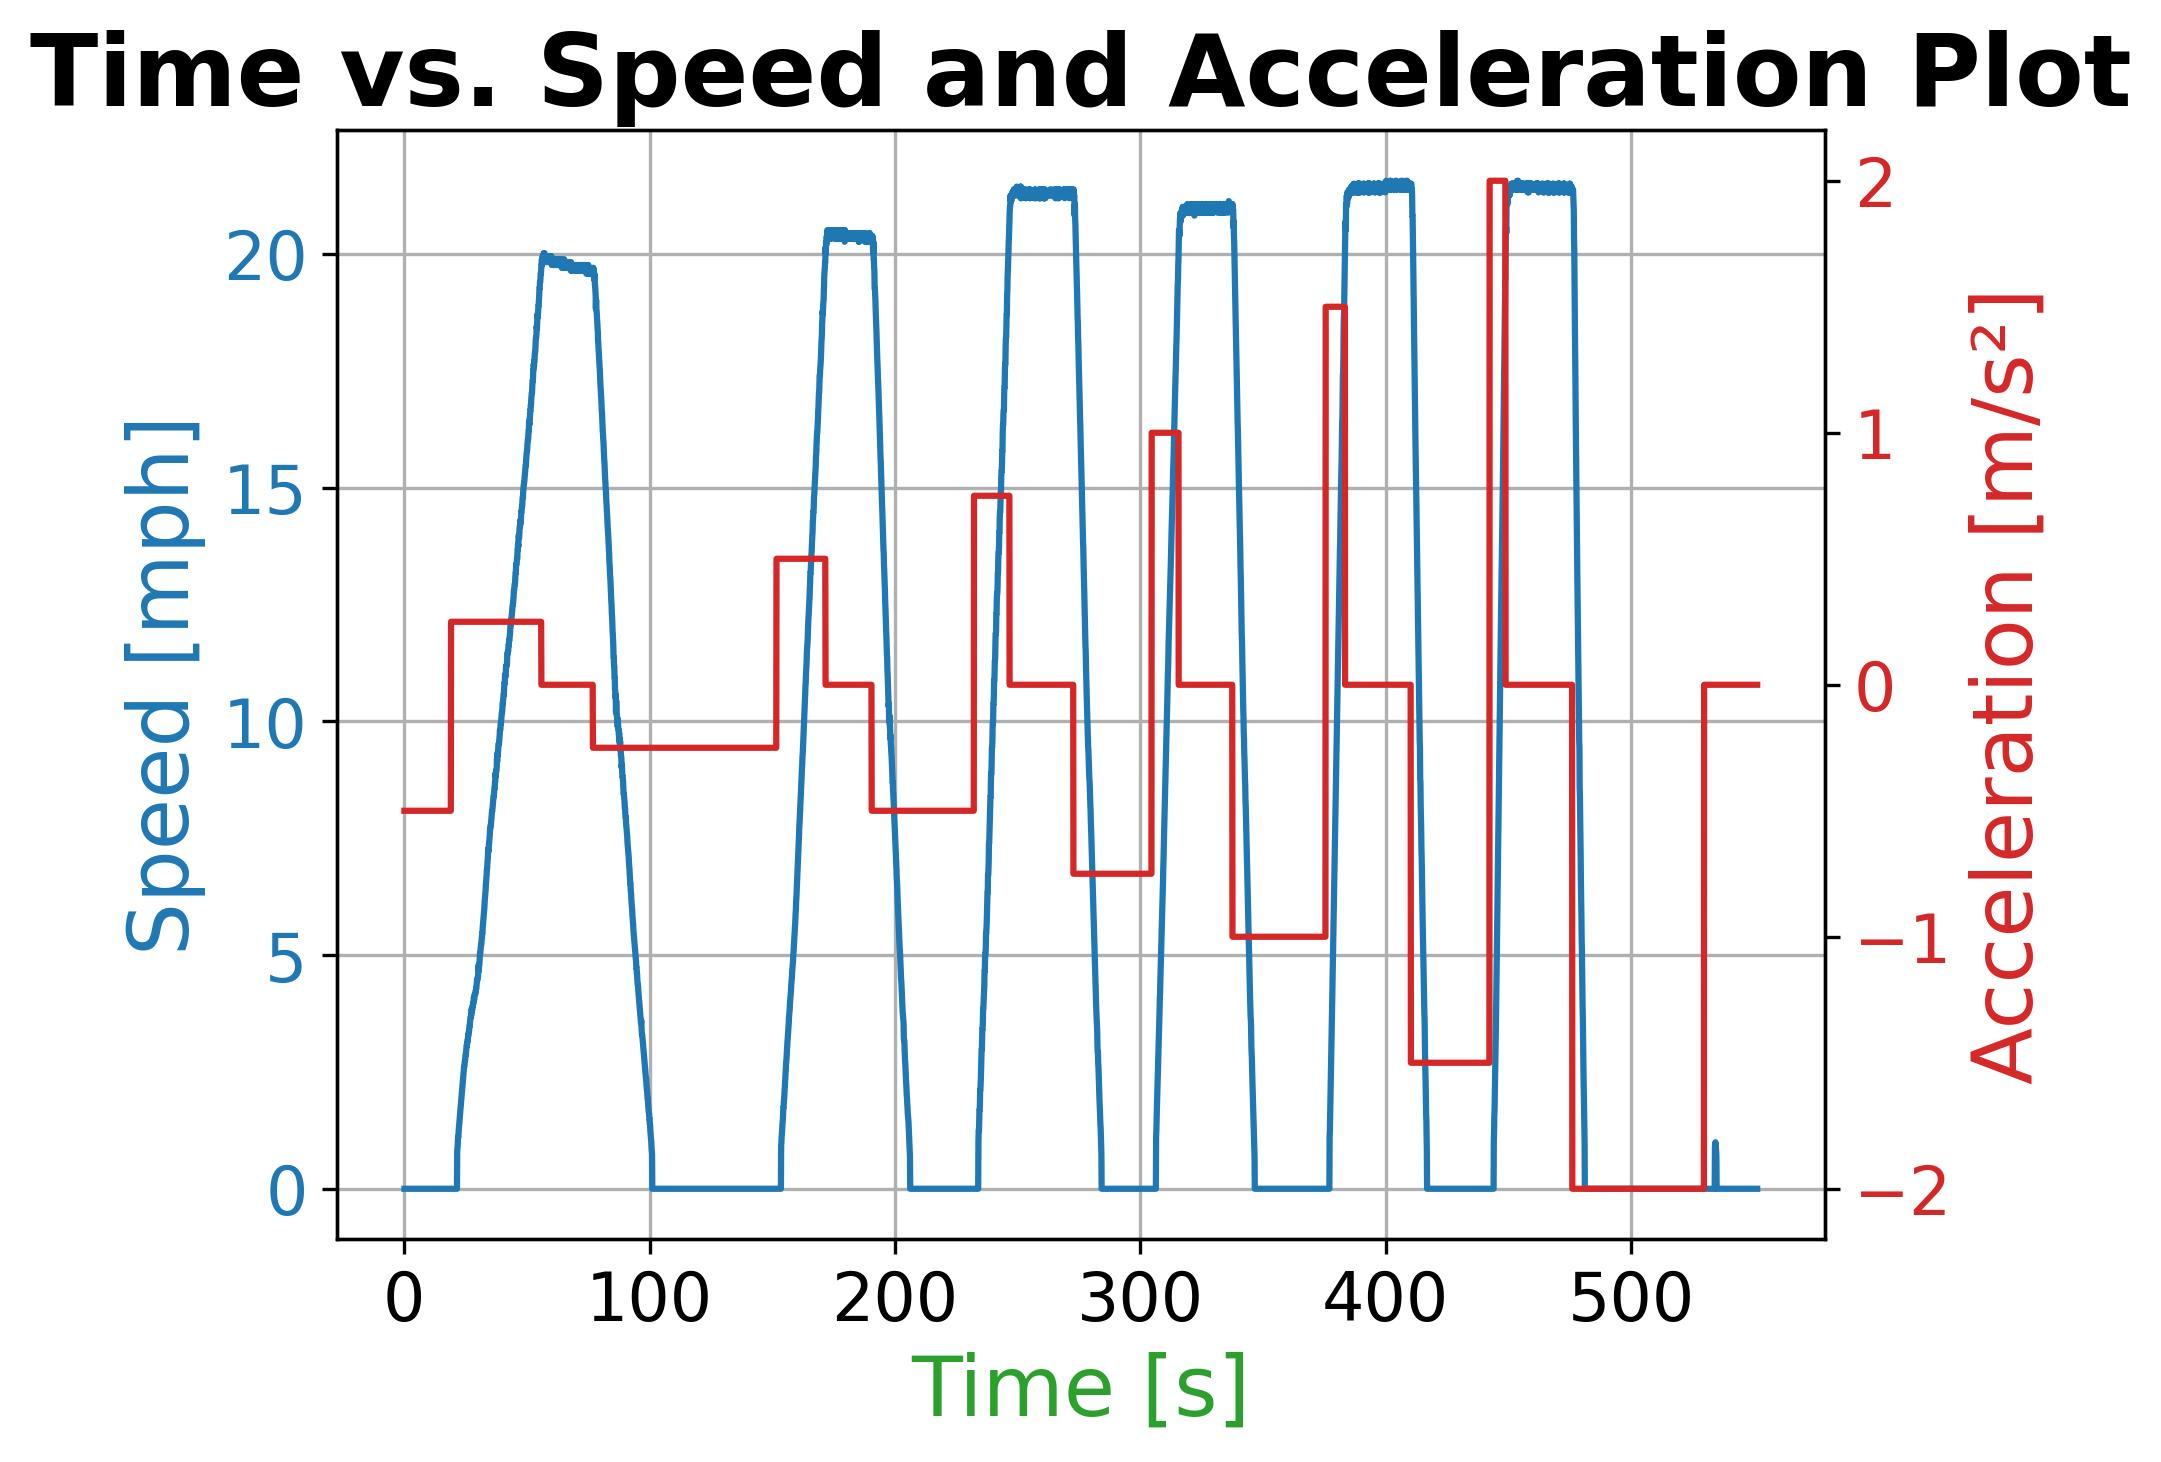
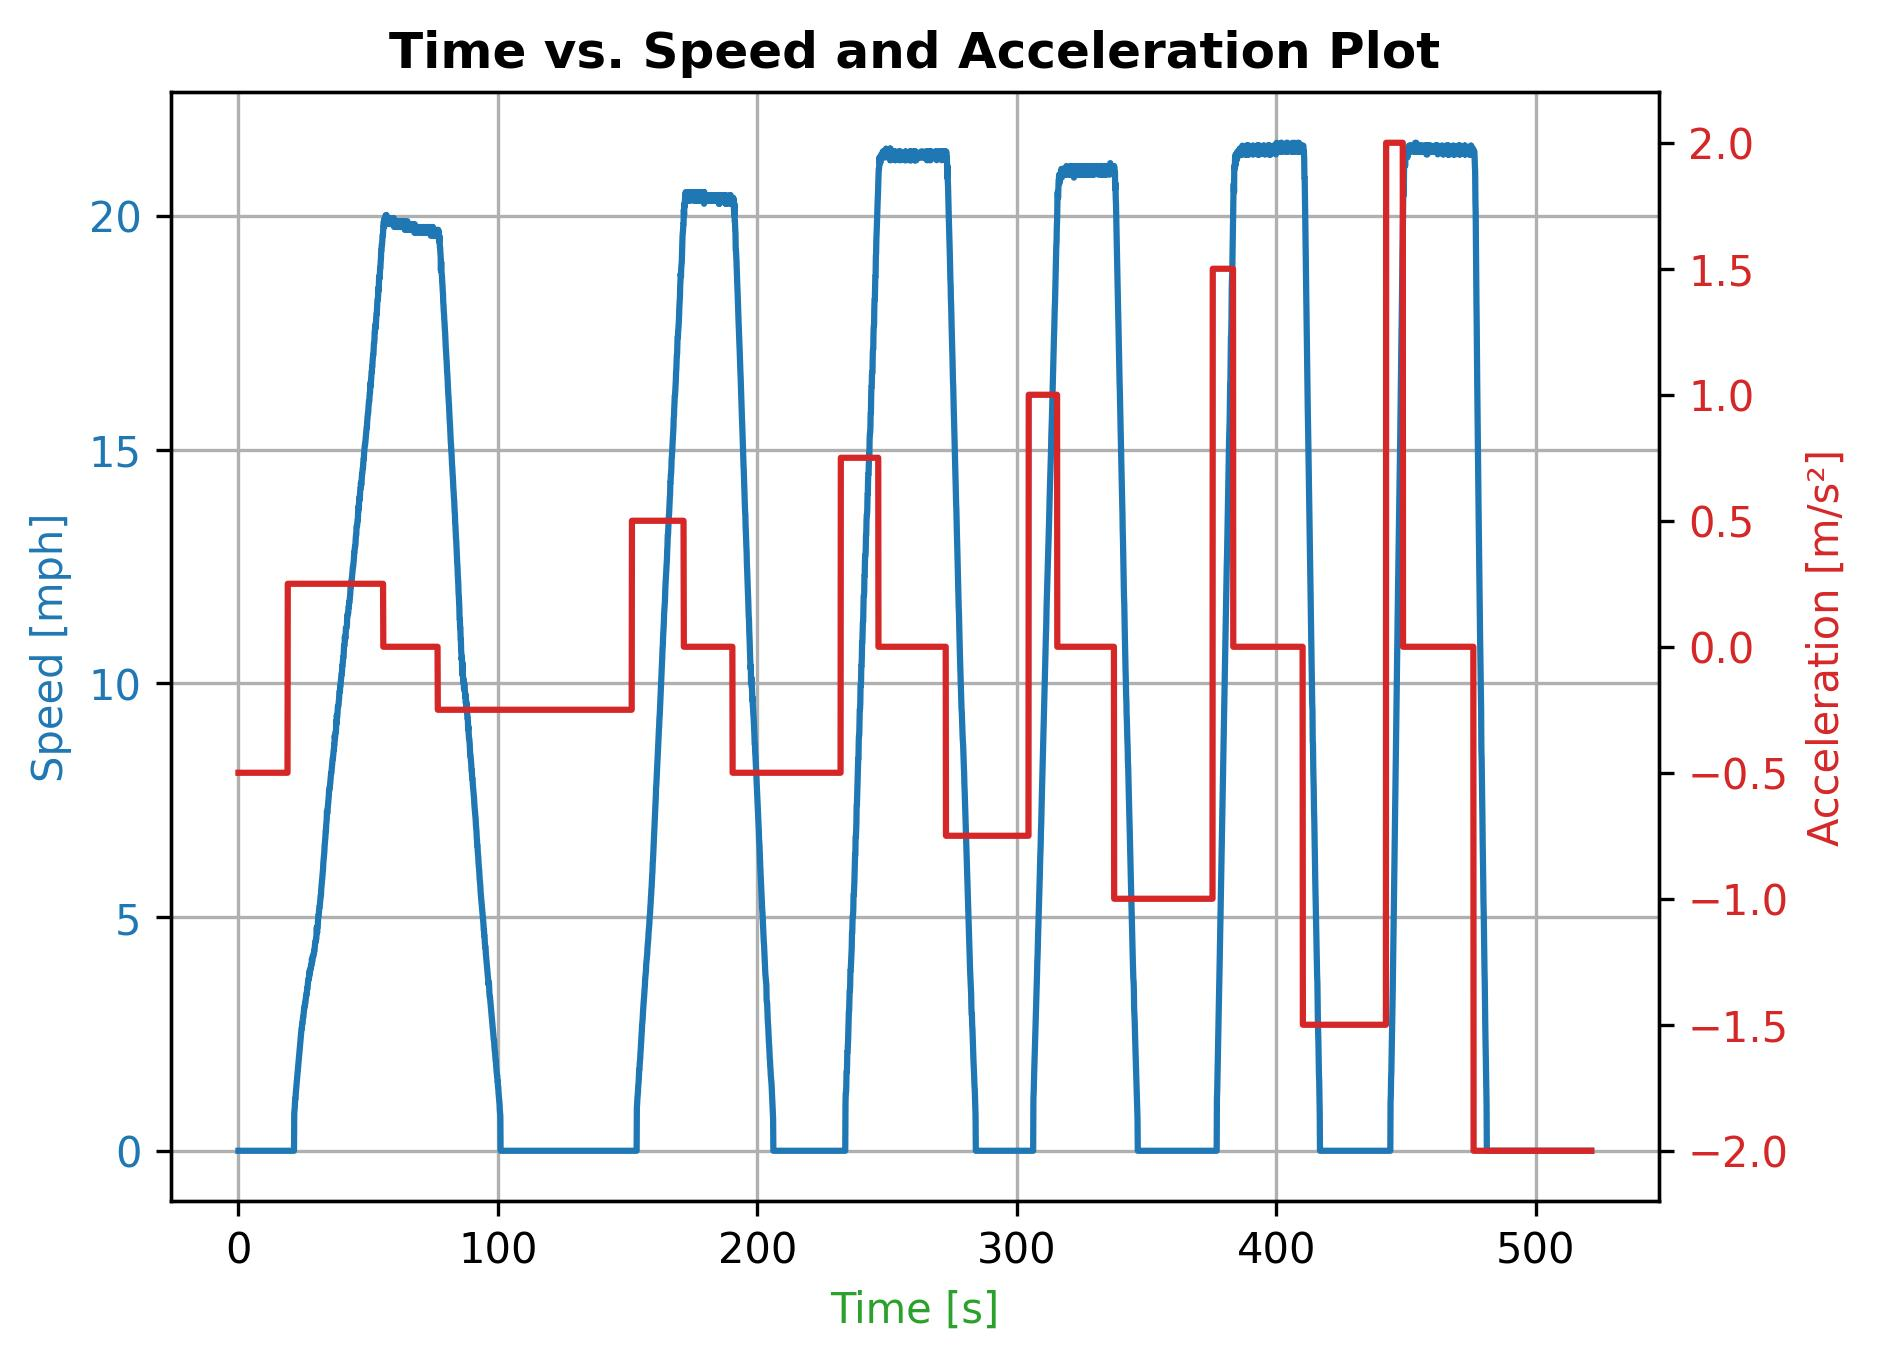
updated figures

Changed region(s): [[0.0, 0.0, 0.9888, 0.9875], [0.0618, 0.8332, 0.0927, 0.8641]]

diff --git a/src/tools/xil-data-analysis/2018-Honda-Accord/PlotManager.py b/src/tools/xil-data-analysis/2018-Honda-Accord/PlotManager.py
@@ -6,12 +6,16 @@ from nptdms import TdmsFile
 class PlotManager:
     def __init__(self, config):
         self.config = config
-        self.plot_save = config['PlotSave']
+        self.plot_save = self.config['PlotSave']
+        self.platform = self.config['Platform']
+        self.end_data_to_discard = self.config['NoOfEndDataDiscard']
 
     def get_files(self):
-        filePath = os.path.expanduser("~") + "/Downloads/2018-Honda-Accord/62409013 2018 Honda Accord Blank 1Bag 3600"
+        if self.platform == "Linux":
+            filePath = os.path.expanduser("~") + "/Downloads/2018-Honda-Accord/62409002 2018 Honda Accord Blank 1Bag 3600"
 
-        self.tdms_file = TdmsFile.read(filePath + "/62409013 Test Data.tdms")
+        else: filePath = "C:\\Users\ddas\\Documents\\Data\\2018-Honda-Accord\\62409002 2018 Honda Accord Blank 1Bag 3600"
+        self.tdms_file = TdmsFile.read(filePath + "\\62409002 Test Data.tdms")
 
     def get_groups_channels_name(self):
         # Get all groups in the TDMS file
@@ -39,23 +43,28 @@ class PlotManager:
 
     def get_data_from_channel(self):
    
-        self.time_data = self.time_channel[:]
-        self.speed_data = self.speed_channel[:]* 0.621371
-        self.accel_data = self.accel_channel[:]
+        self.time_data = self.time_channel[:-self.end_data_to_discard]
+        self.speed_data = self.speed_channel[:-self.end_data_to_discard]* 0.621371
+        self.accel_data = self.accel_channel[:-self.end_data_to_discard]
 
     def plot_primary_yaxis(self, x_data, y_data, x_label, y_label, title, fileName, plot_save_status):
 
         plt.plot(x_data, y_data, label="Speed")
-        plt.title(title, fontsize=24, fontweight='bold')
-        plt.xlabel(x_label, color='tab:green', fontsize=20)
-        plt.ylabel(y_label, color='tab:blue', fontsize=20)
-        plt.tick_params(axis='both', which='major', labelsize=16)
+        # plt.title(title, fontsize=18, fontweight='bold')
+        # plt.xlabel(x_label, color='tab:green', fontsize=16)
+        # plt.ylabel(y_label, color='tab:blue', fontsize=16)
+        # plt.tick_params(axis='both', which='major', labelsize=12)
         # plt.legend(fontsize=16)
+        plt.title(title, fontweight='bold')
+        plt.xlabel(x_label, color='tab:green')
+        plt.ylabel(y_label, color='tab:blue')
+        plt.tick_params(axis='both', which='major')
         plt.grid(True)
         
         if plot_save_status:
             file_directory = "figure/" + fileName + ".jpg"
             plt.savefig(file_directory, bbox_inches='tight', dpi=300)
+            print("saved file")
         
         else:plt.show()
         
@@ -65,16 +74,23 @@ class PlotManager:
         # # Create a figure and axis object
         fig, ax1 = plt.subplots()
 
-        ax1.set_xlabel(x_label, color='tab:green', fontsize=20)
-        ax1.set_ylabel(y_label1, color='tab:blue', fontsize=20)
+        # ax1.set_xlabel(x_label, color='tab:green', fontsize=16)
+        # ax1.set_ylabel(y_label1, color='tab:blue', fontsize=16)
+        # primary_axis_line, = ax1.plot(x_data, y_data1, color='tab:blue', label='Speed')
+        # ax1.tick_params(axis='y', labelcolor='tab:blue', labelsize=12)
+        # ax1.tick_params(axis='x', labelsize=12)  # Set label size for x-axis ticks
+        ax1.set_xlabel(x_label, color='tab:green')
+        ax1.set_ylabel(y_label1, color='tab:blue')
         primary_axis_line, = ax1.plot(x_data, y_data1, color='tab:blue', label='Speed')
-        ax1.tick_params(axis='y', labelcolor='tab:blue', labelsize=16)
-        ax1.tick_params(axis='x', labelsize=16)  # Set label size for x-axis ticks
+        ax1.tick_params(axis='y', labelcolor='tab:blue')
+
 
         ax2 = ax1.twinx()  # Instantiate a second axes that shares the same x-axis
-        ax2.set_ylabel(y_label2, color='tab:red', fontsize=20)
+        # ax2.set_ylabel(y_label2, color='tab:red', fontsize=16)
+        ax2.set_ylabel(y_label2, color='tab:red')
         secondary_axis_line, = ax2.plot(x_data, y_data2, color='tab:red', label='Acceleration')
-        ax2.tick_params(axis='y', labelcolor='tab:red', labelsize=16)
+        # ax2.tick_params(axis='y', labelcolor='tab:red', labelsize=12)
+        ax2.tick_params(axis='y', labelcolor='tab:red')
 
         # Combine legends from both axes
         lines = [primary_axis_line, secondary_axis_line]  # Handles for both lines
@@ -82,11 +98,13 @@ class PlotManager:
 
         # ax1.legend(lines, labels, loc='upper right', fontsize=16)
         ax1.grid(True)
-        plt.title(title, fontsize=24, fontweight='bold')
+        # plt.title(title, fontsize=18, fontweight='bold')
+        plt.title(title, fontweight='bold')
         
         if plot_save_status:
             file_directory = "figure/" + fileName + ".jpg"
             plt.savefig(file_directory, bbox_inches='tight', dpi=300)
+            print("saved file")
 
         else:plt.show()
 
@@ -97,8 +115,8 @@ class PlotManager:
         self.get_groups_channels()
         self.get_data_from_channel()
         # self.get_groups_channels_name()
-        # self.plot_primary_yaxis(self.time_data, self.speed_data, "Time [s]", "Speed [mph]", "Time vs. Speed Plot", "60_mph_time_vs_speed", self.plot_save)
-        # self.plot_primary_secondary_yaxis(self.time_data, self.speed_data, self.accel_data, "Time [s]", "Speed [mph]", "Acceleration [m/s²]", "Time vs. Speed and Acceleration Plot", "60_mph_time_vs_speed_Accel", self.plot_save)
+        self.plot_primary_yaxis(self.time_data, self.speed_data, "Time [s]", "Speed [mph]", "Time vs. Speed Plot", "0-20_mph_time_vs_speed", self.plot_save)
+        self.plot_primary_secondary_yaxis(self.time_data, self.speed_data, self.accel_data, "Time [s]", "Speed [mph]", "Acceleration [m/s²]", "Time vs. Speed and Acceleration Plot", "0-20_mph_time_vs_speed_Accel", self.plot_save)
 
 
     
